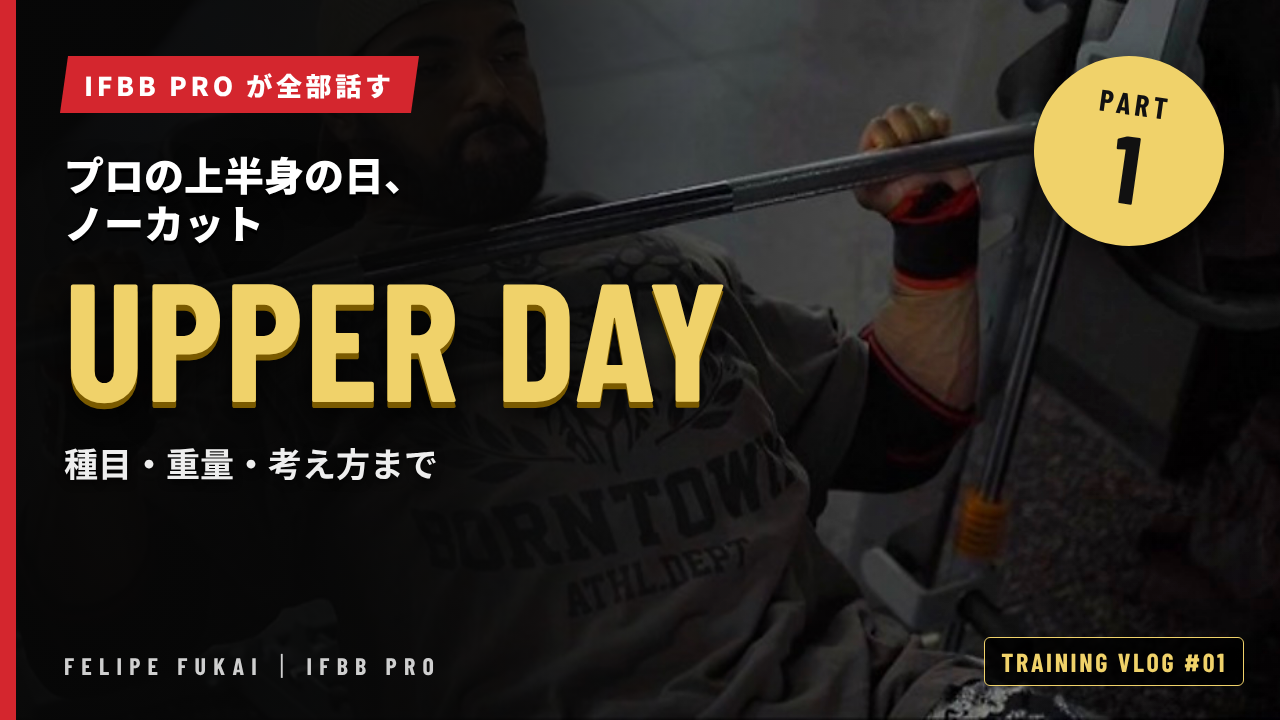
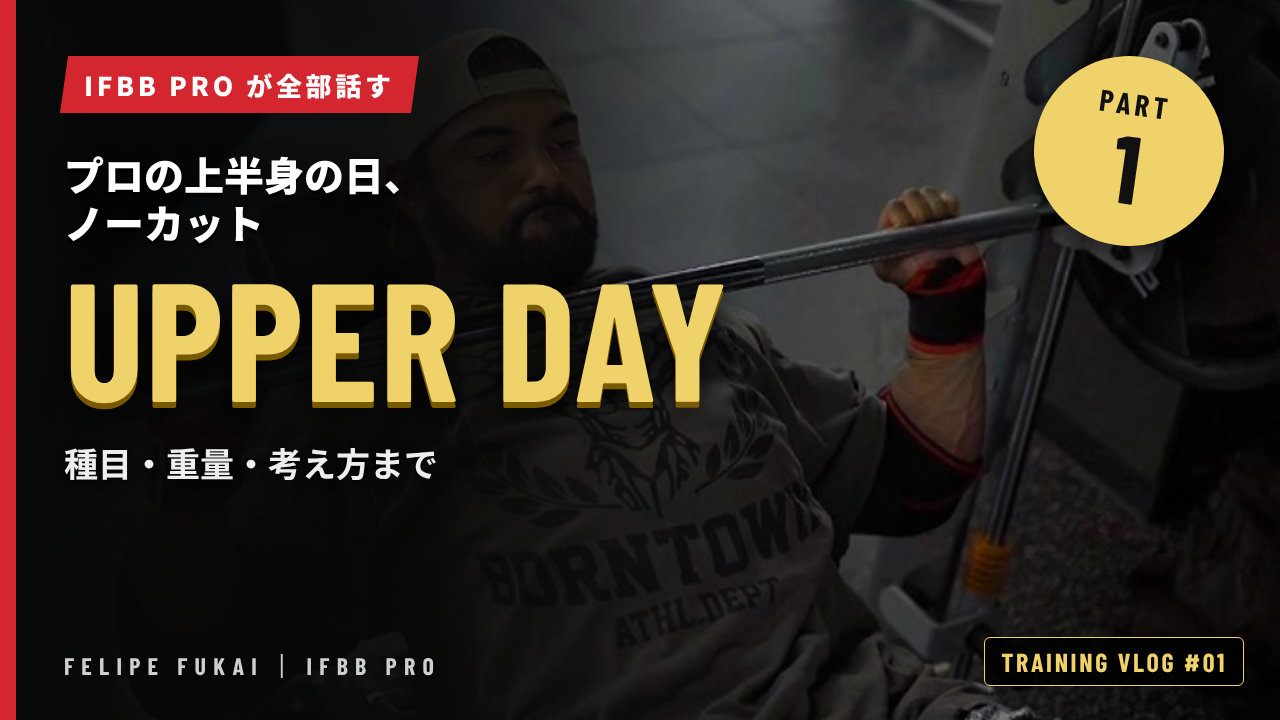
UPPER DAY thumbnails: reframe to keep the face visible and hide the burned-in caption
Claude-Session: https://claude.ai/code/session_01HRty6kL8VRnpLHHHzSF3iS

diff --git a/assets/yt/thumb-template.html b/assets/yt/thumb-template.html
@@ -4,7 +4,7 @@
 @font-face{font-family:"BC";src:url("../fonts/node_modules/@fontsource/barlow-condensed/files/barlow-condensed-latin-700-normal.woff2") format("woff2");font-weight:700}
 *{margin:0;padding:0;box-sizing:border-box}html,body{width:1280px;height:720px;overflow:hidden;background:#070707}
 body{font-family:"NS",sans-serif;color:#fff;position:relative}
-.bg{position:absolute;inset:0;background:url(frame.jpg) 72% 100%/auto 138% no-repeat;filter:saturate(1.1) contrast(1.08)}
+.bg{position:absolute;inset:0;background:url(frame.jpg) 68% 88%/auto 124% no-repeat;filter:saturate(1.1) contrast(1.08)}
 .shade{position:absolute;inset:0;background:linear-gradient(90deg,rgba(7,7,7,.96) 0%,rgba(7,7,7,.9) 34%,rgba(7,7,7,.35) 56%,rgba(7,7,7,.05) 80%)}
 .bar{position:absolute;left:0;top:0;width:16px;height:720px;background:#d4262e}
 .tag{position:absolute;left:64px;top:56px;background:#d4262e;font-size:26px;font-weight:900;letter-spacing:.14em;padding:10px 20px;transform:skew(-8deg)}
